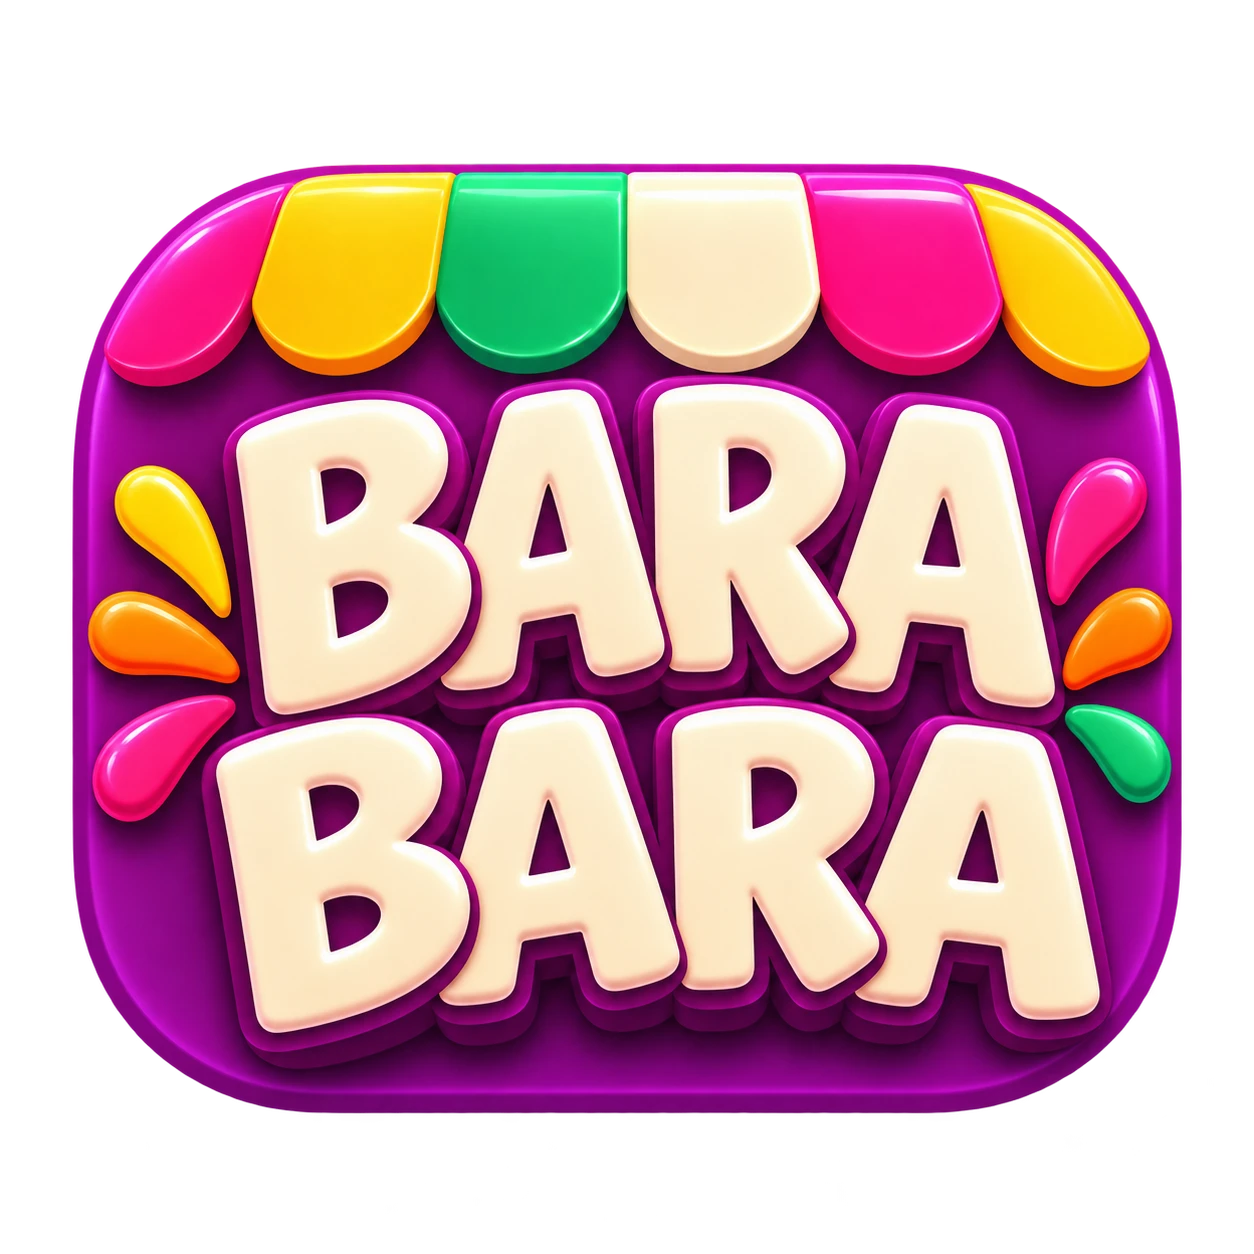
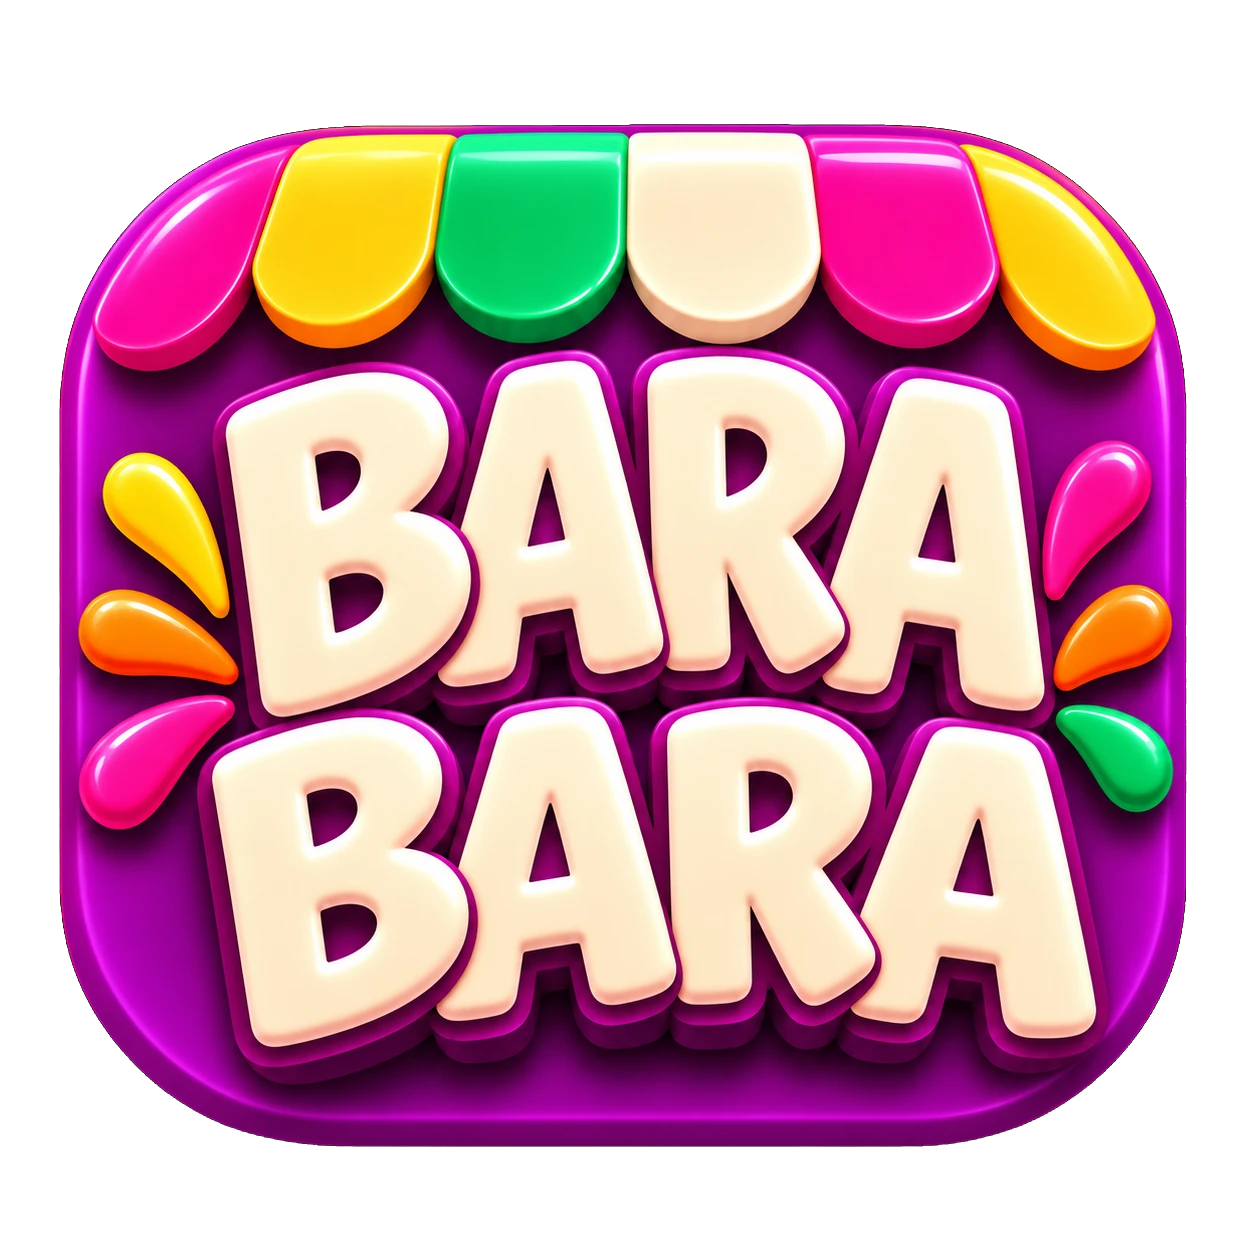
feat(marca): ícono nuevo — cuadrado a sangre para iOS, Android y tiendas
- icono-tienda.webp (cuadrado a sangre): apple-touch 180 (iOS redondea las esquinas), maskable 512
  de Android e íconos de tienda en docs/marca/tiendas (App Store 1024 y Google Play 512, sin alfa).
- icono.webp: la nueva versión del cuadro redondeado, con el fondo negro recortado a transparente,
  para los íconos «any» de la PWA y el favicon.
- generar-iconos.mjs y README actualizados.

Claude-Session: https://claude.ai/code/session_014qkARsVuz5xA82ZWeUhj9M

diff --git a/README.md b/README.md
@@ -58,6 +58,16 @@ Todo lo transaccional persiste en `localStorage` (Zustand, clave `bara-bara-demo
 - `next.config.ts` envía CSP (sin nonces: páginas estáticas), `X-Content-Type-Options`, `Referrer-Policy`, `X-Frame-Options`, `Permissions-Policy` (solo ubicación), HSTS y COOP. Los únicos orígenes externos son los de CARTO (o Google Maps si se elige ese proveedor).
 - `.github/workflows/ci.yml`: `validate:data`, `lint`, `test`, `build` y `e2e` en cada push y PR.
 
+## Marca
+
+- Originales en `scripts/assets/marca/`:
+  - `icono.webp`: cuadro redondeado, fondo transparente;
+  - `icono-tienda.webp`: cuadrado a sangre para iOS y Android;
+  - `logotipo.webp`;
+  - `marchanta.webp`.
+- `pnpm icons` regenera los íconos de la PWA, el favicon, el logotipo web y los íconos de tienda.
+- Íconos para publicar en tiendas: `docs/marca/tiendas/app-store-1024.png` (App Store, sin transparencia) y `docs/marca/tiendas/google-play-512.png` (Google Play).
+
 ## Deploy en Vercel
 
 No hace falta `vercel.json`: Vercel detecta Next.js y usa `pnpm build` (que ya incluye `serwist build`).
